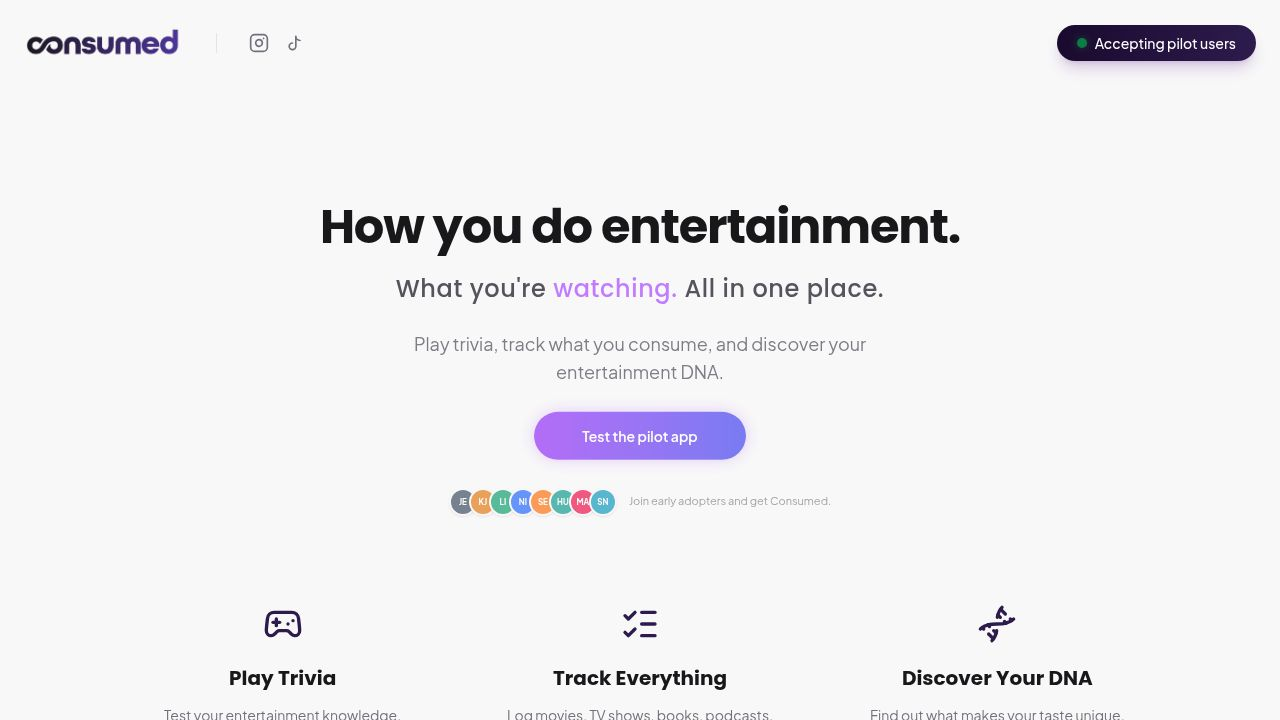
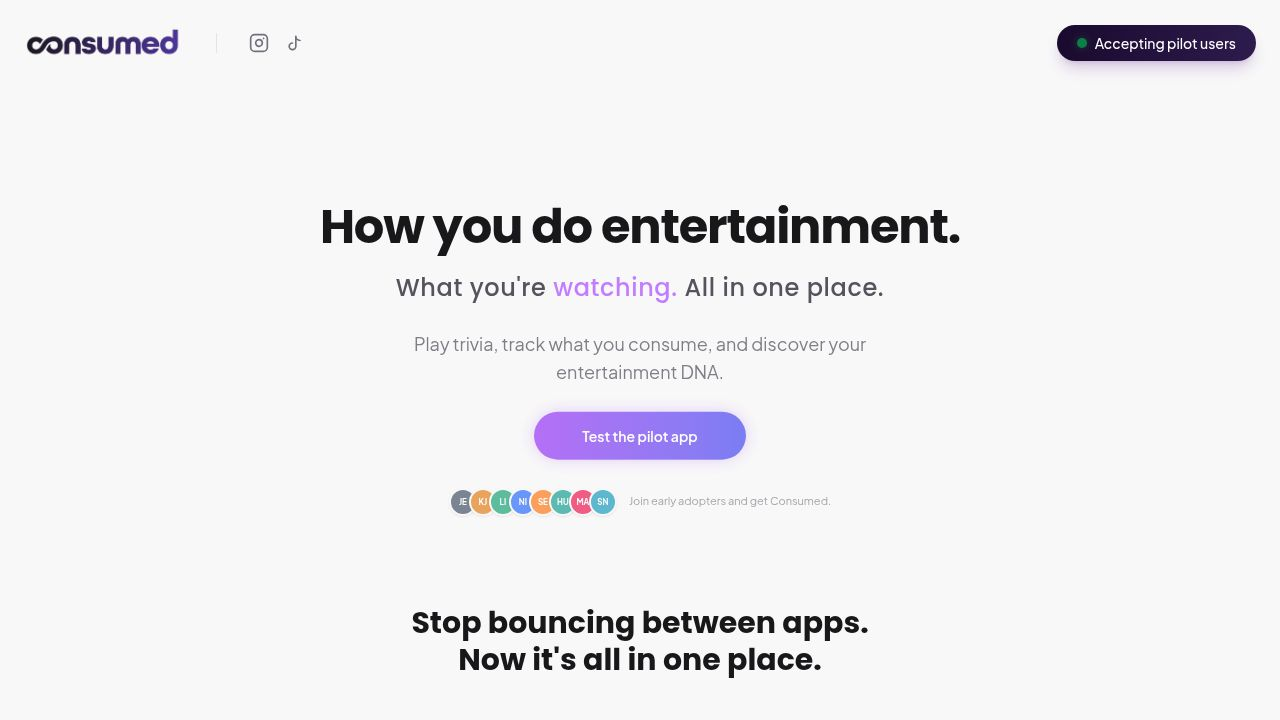
Add new heading above the feature columns
Adds a new section with a heading to the home page in client/src/pages/home.tsx.

Replit-Commit-Author: Agent
Replit-Commit-Session-Id: 1054afe4-a81a-4bfc-9d50-b308ff59b433
Replit-Commit-Checkpoint-Type: full_checkpoint
Replit-Commit-Event-Id: bae286b1-8b69-47b8-9cc2-1e6f5b5e6e06
Replit-Commit-Screenshot-Url: https://storage.googleapis.com/screenshot-production-us-central1/3ba4014b-a542-439a-b8e3-25ffaea1718b/1054afe4-a81a-4bfc-9d50-b308ff59b433/TmBwrpQ
Replit-Helium-Checkpoint-Created: true

diff --git a/client/src/pages/home.tsx b/client/src/pages/home.tsx
@@ -225,6 +225,20 @@ export default function Home() {
           </motion.div>
         </div>
 
+        {/* Section Heading */}
+        <motion.div
+          initial={{ opacity: 0, y: 20 }}
+          whileInView={{ opacity: 1, y: 0 }}
+          transition={{ duration: 0.6 }}
+          viewport={{ once: true }}
+          className="mt-10 md:mt-14 text-center max-w-2xl mx-auto"
+        >
+          <h2 className="text-2xl md:text-3xl font-bold text-zinc-900 leading-tight">
+            Stop bouncing between apps.<br />
+            Now it's all in one place.
+          </h2>
+        </motion.div>
+
         {/* Three-Column Feature Section */}
         <motion.div
           initial={{ opacity: 0, y: 30 }}
